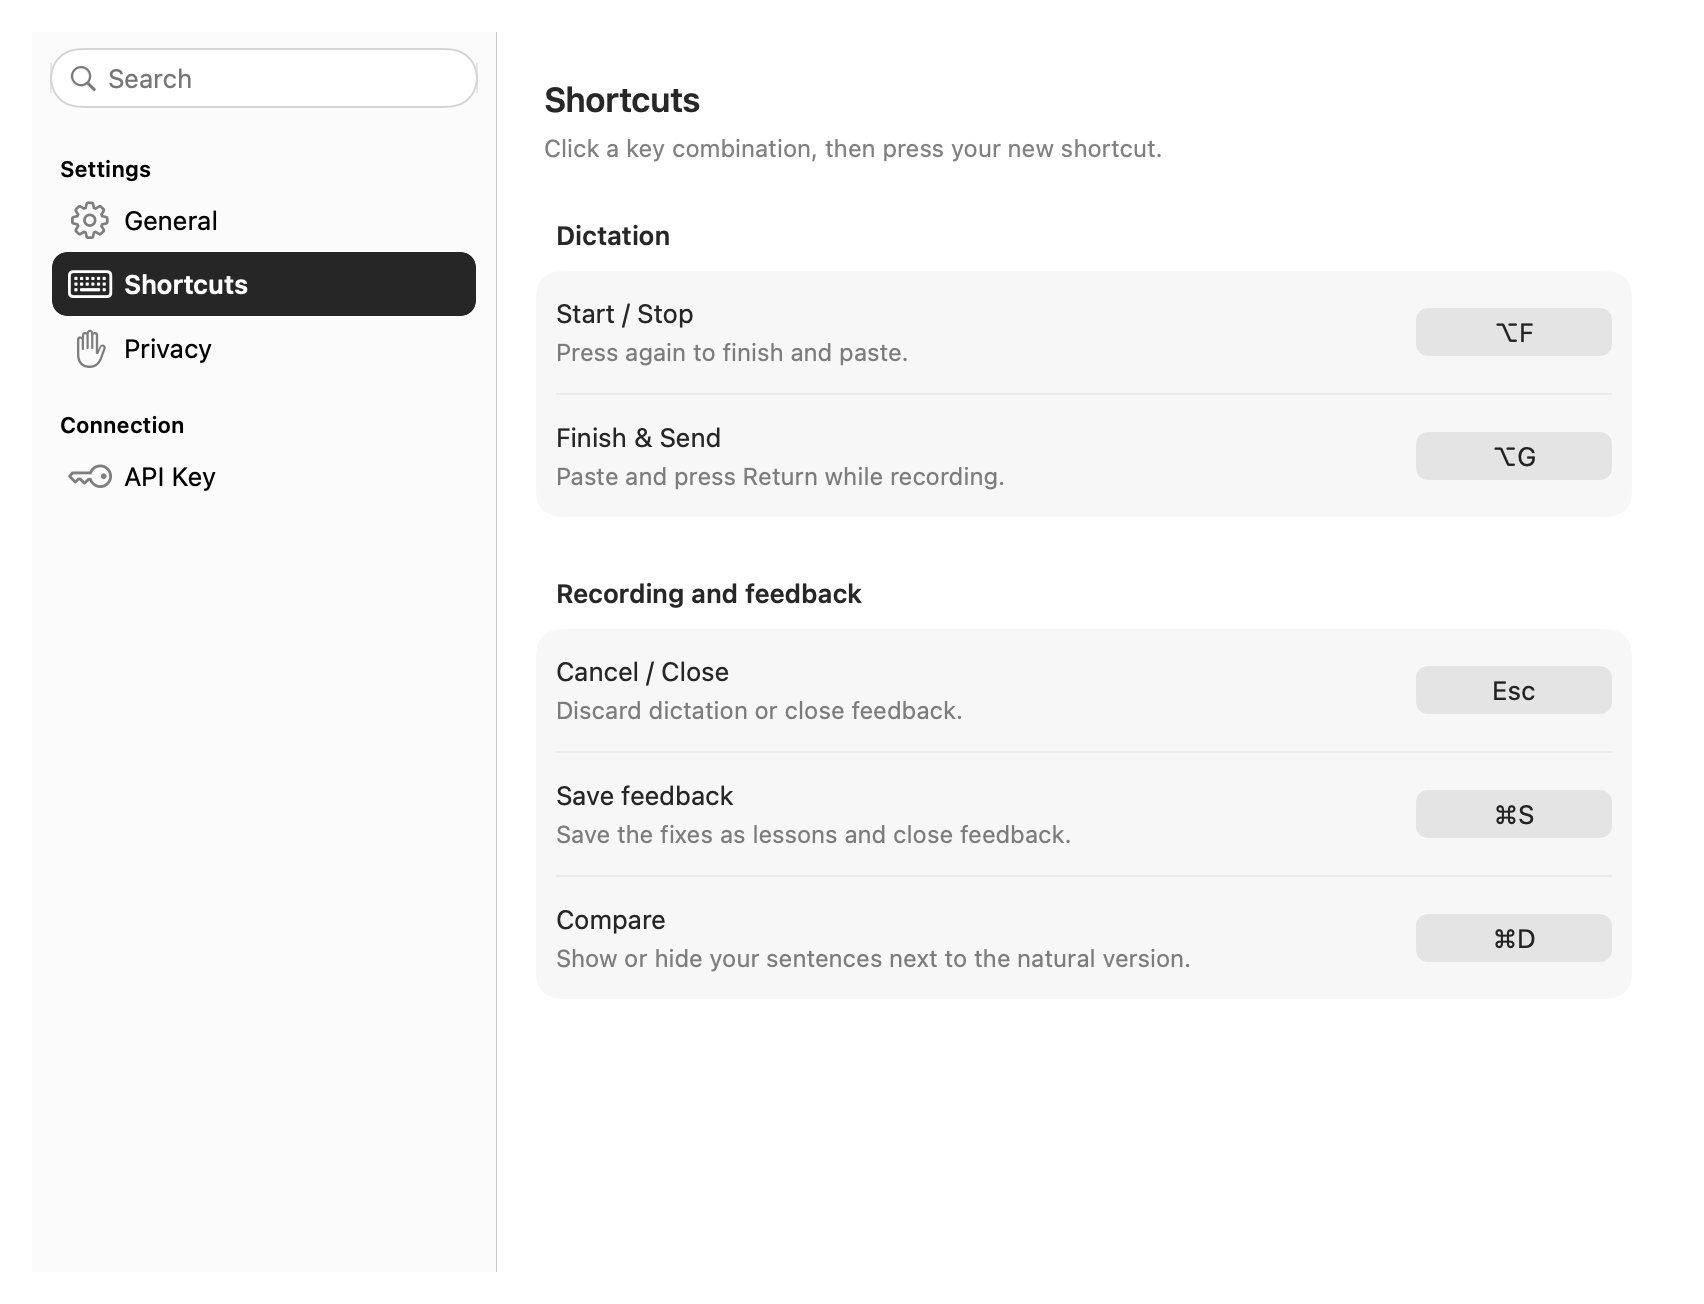
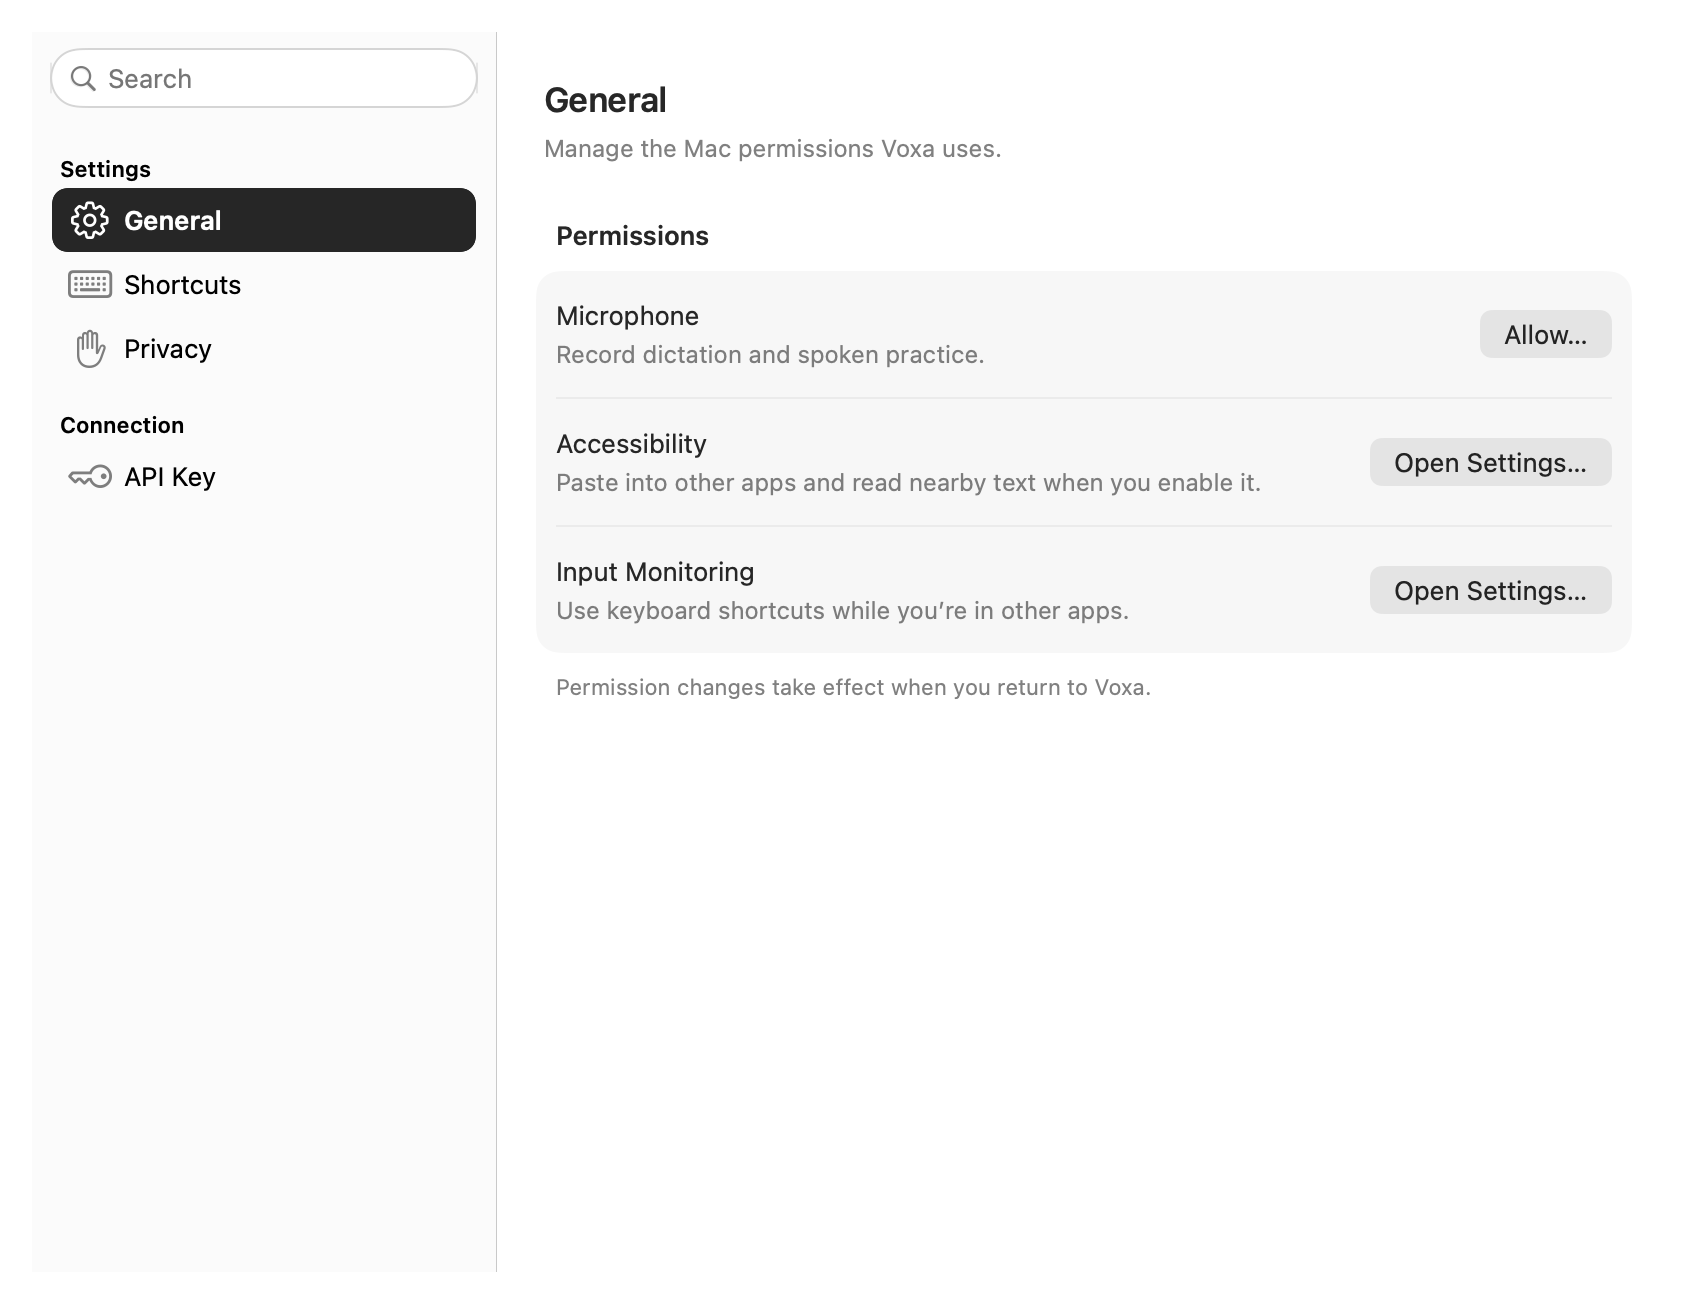
Refresh documentation screenshots for the current UI
- Recapture English feedback with the side-by-side fixes and natural version
- Show Settings → General, where new users grant permissions
- Re-render the practice example at full resolution
- Describe opening a fix's explanation instead of the removed Why? button
- Fix the preview renderer's stale waveform bound so it runs again

diff --git a/scripts/preview/FeedbackPreview.swift b/scripts/preview/FeedbackPreview.swift
@@ -288,7 +288,8 @@ private enum FeedbackPreview {
         for index in ActivityOverlayMetrics.waveform.indices {
             for level in [0, 0.1, 0.7, 1, -1, Double.nan, Double.infinity] {
                 let height = ActivityOverlayMetrics.barHeight(index: index, level: level, time: 0)
-                guard height.isFinite, (3...26).contains(height) else { throw FeedbackError.invalidResponse }
+                // Bars must fit the waveform's 32-point frame.
+                guard height.isFinite, (3...32).contains(height) else { throw FeedbackError.invalidResponse }
             }
         }
         let quiet = ActivityOverlayMetrics.barHeight(index: 11, level: 0, time: 0)

diff --git a/README.md b/README.md
@@ -38,7 +38,7 @@ pasted as dictated; suggestions appear separately for you to review.
   lesson by speaking or typing, or revisit patterns in a one-minute review.
 - **Follow your progress.** See which mistakes you keep repeating.
 
-<img src="assets/screenshots/english-feedback.png" alt="Voxa English feedback showing four fixes as You said → Better pairs with repeated mistakes flagged, a misheard-word note, and a more natural version of the dictation" width="512">
+<img src="assets/screenshots/english-feedback.png" alt="Voxa English feedback showing four fixes as You said → Better pairs, two marked as repeated mistakes, a misheard-word note, and the whole dictation said more naturally beside them" width="760">
 
 *Voxa’s feedback panel, shown with sample text.*
 [See a practice example](assets/screenshots/english-practice.png).
@@ -67,7 +67,7 @@ Enable **English Learning → English feedback** in the menu bar.
 <img src="assets/screenshots/english-learning.png" alt="Voxa English Learning listing repeated mistakes as You said → Better pairs with how often each happened" width="900">
 
 *The learning window, shown with sample fixes.*
-[See Settings](assets/screenshots/settings.png).
+[See Settings → General](assets/screenshots/settings.png).
 
 ## Get started
 

diff --git a/docs/usage.md b/docs/usage.md
@@ -87,11 +87,11 @@ with translucent material on older systems.
 Its controls adapt to the system appearance; Reduce Transparency and Increase Contrast use a solid surface.
 Feedback follows the system appearance:
 white in light mode and charcoal in dark mode, with green accents. Drag the orb to move it;
-drag the **English feedback** header to move the popup. Voxa remembers the shared position across recordings and app restarts.
+drag the feedback header to move the popup. Voxa remembers the shared position across recordings and app restarts.
 Feedback grows to
 fit its contents up to a screen-safe height; longer content remains scrollable without
-visible scroll indicators. Compact explanations appear below the sentence list after
-clicking a correction or **Why?**. The popup grows upward from its bottom edge as you
+visible scroll indicators. Click a fix to open its explanation and other ways to say it
+directly below that fix. The popup grows upward from its bottom edge as you
 open an explanation. Reduced Motion removes continuous
 waveform motion. Increased Contrast strengthens the outline and secondary text.
 
